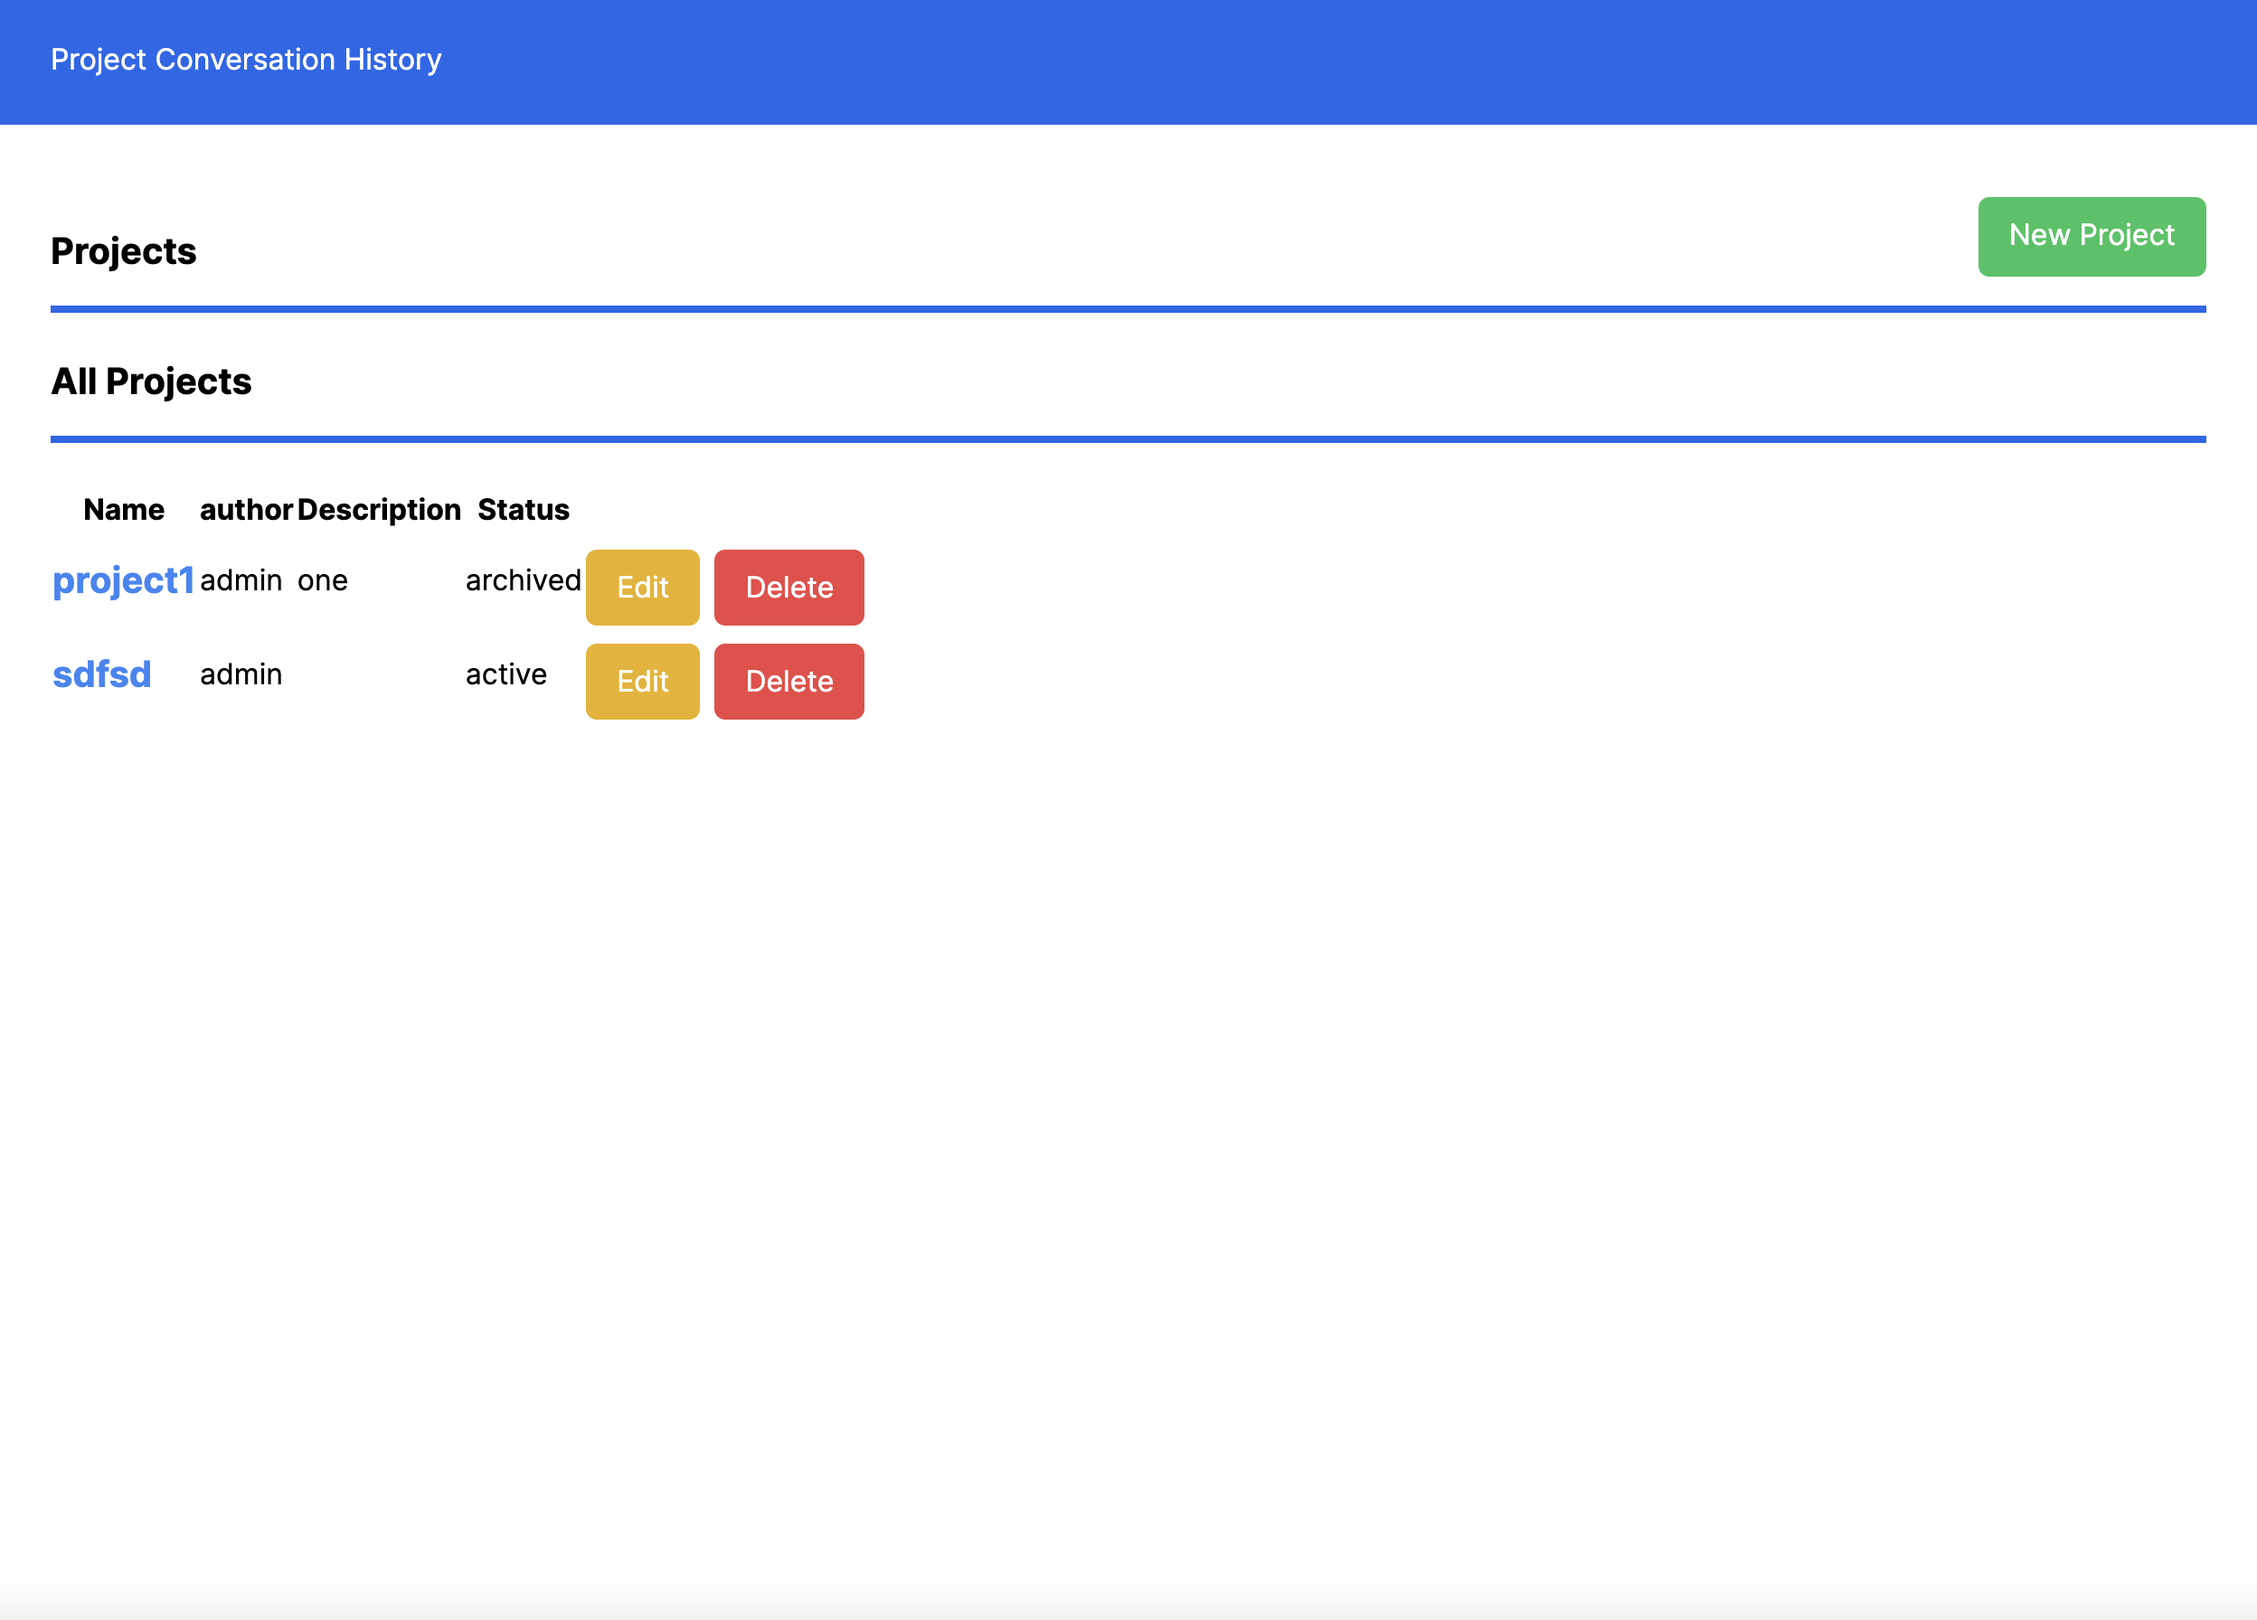
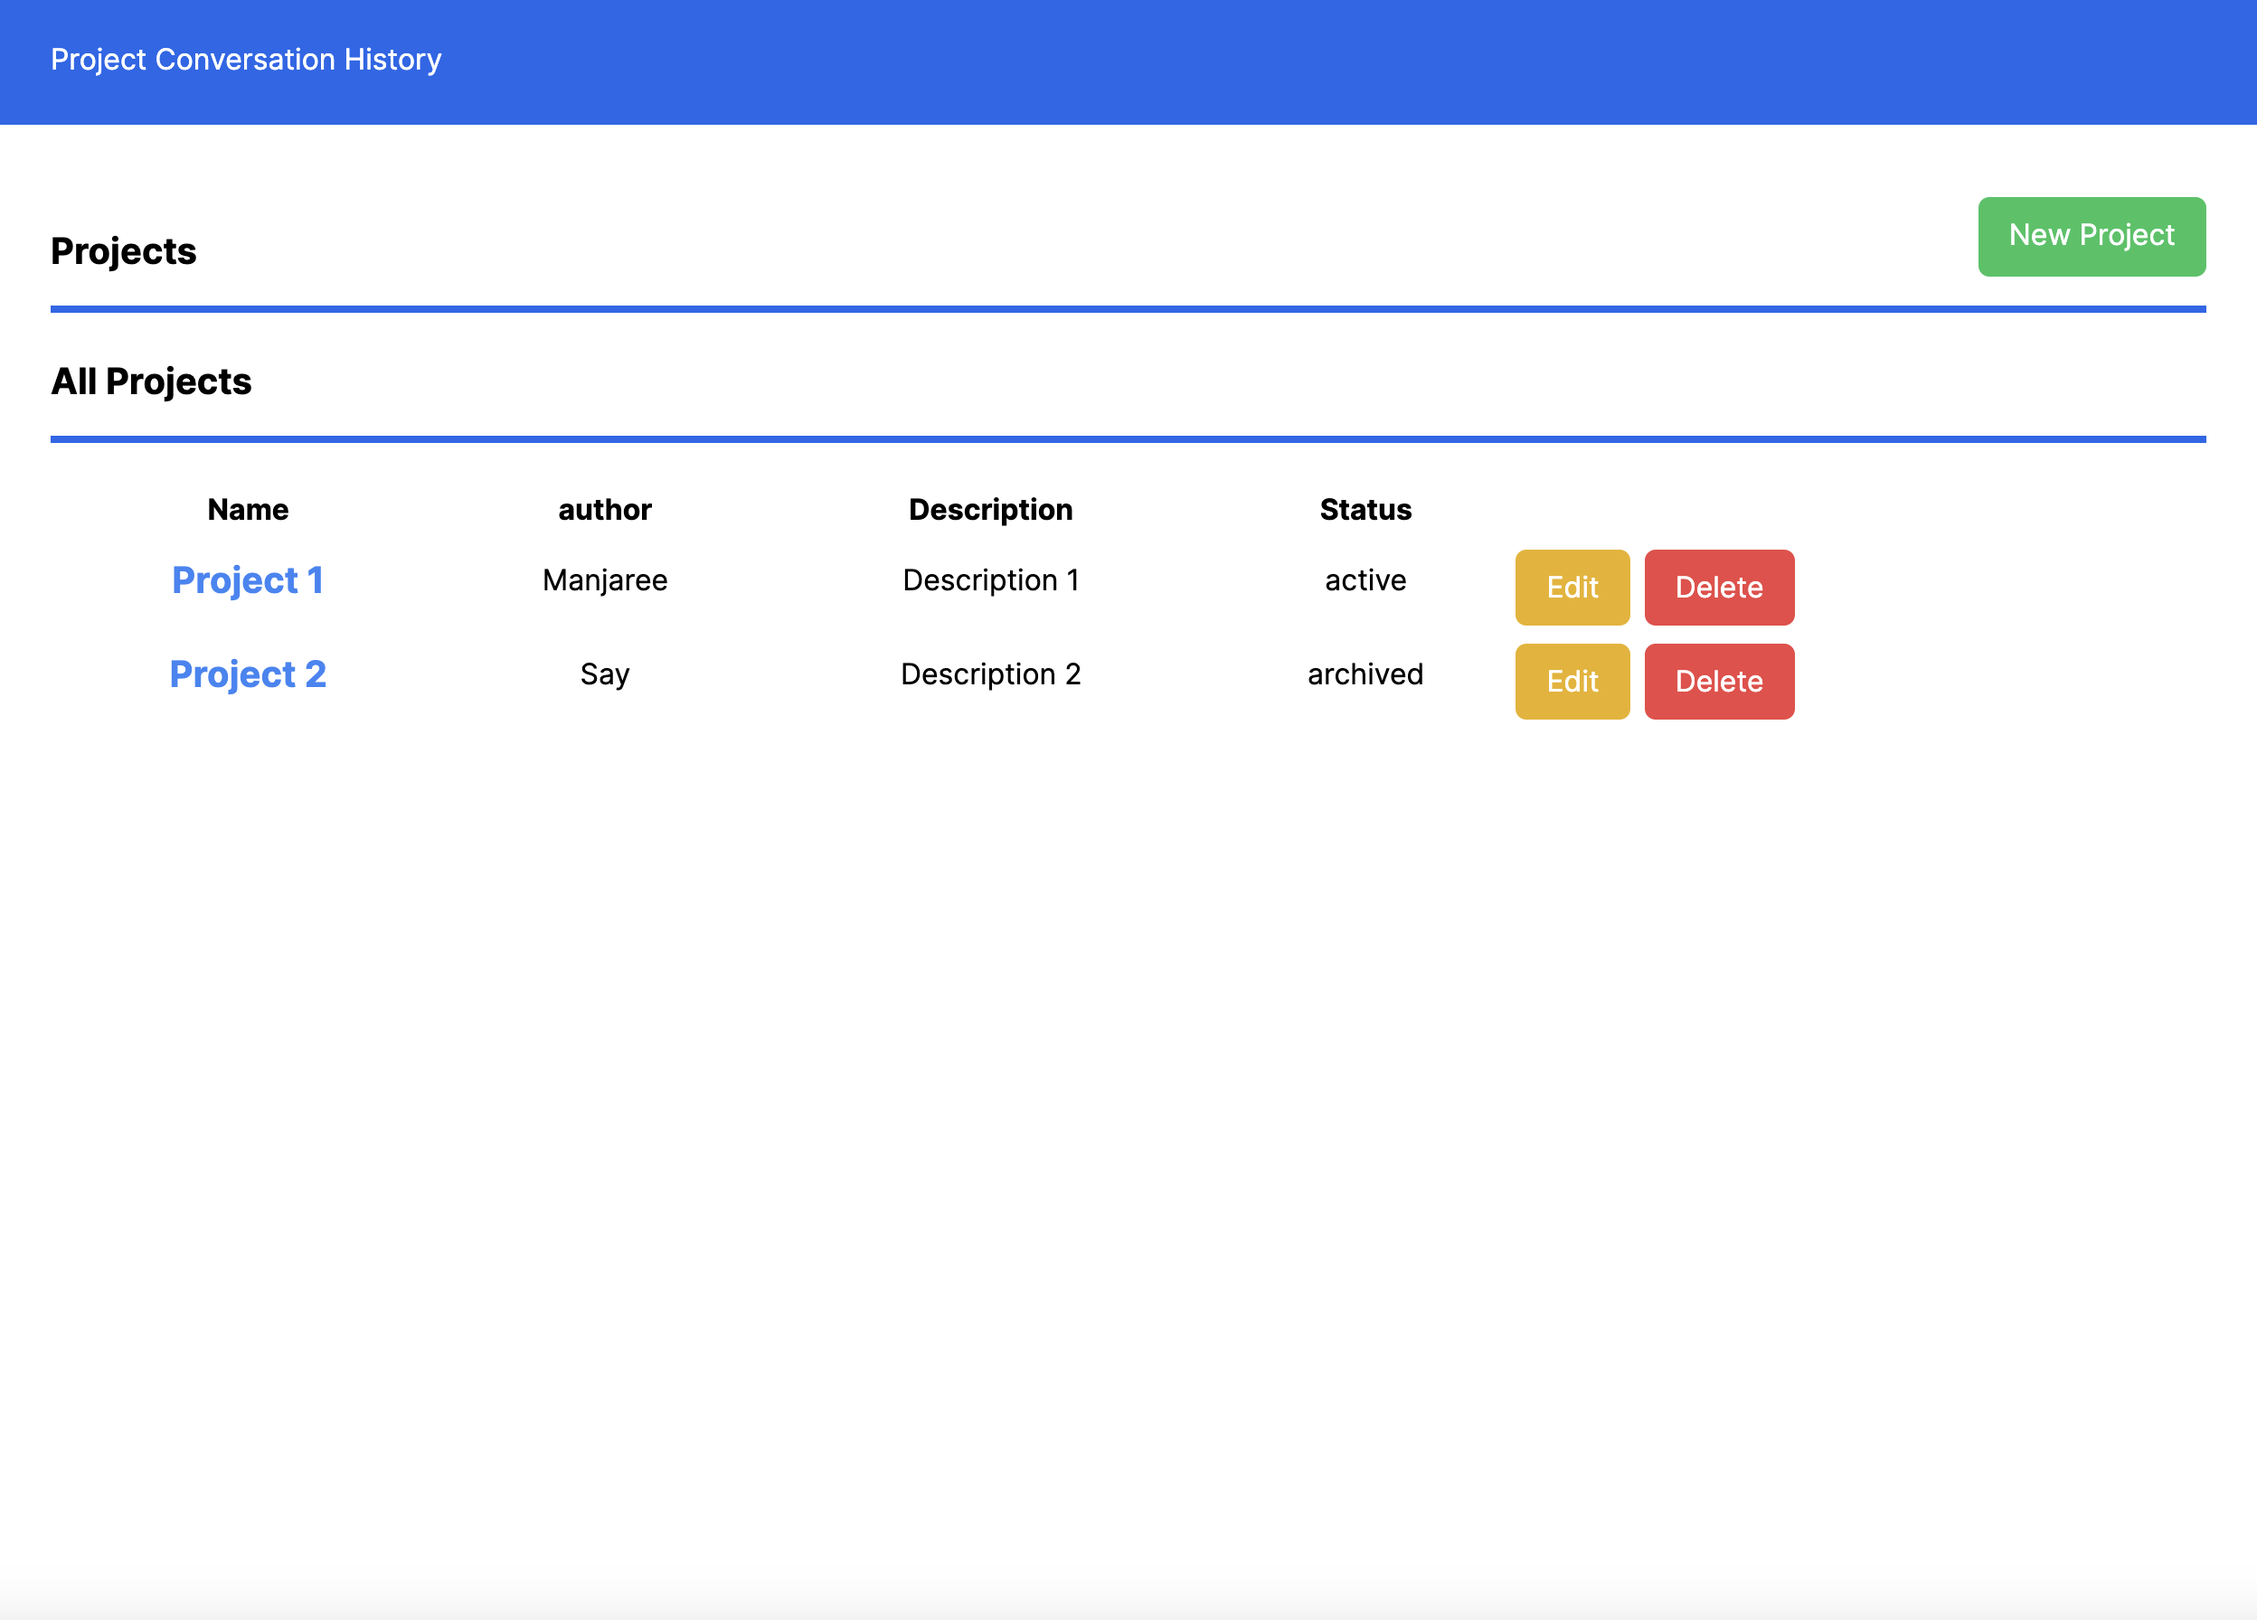
added more seeds and specs

diff --git a/app/controllers/projects_controller.rb b/app/controllers/projects_controller.rb
@@ -4,20 +4,25 @@ class ProjectsController < ApplicationController
   before_action :set_project, only: %i[show edit update destroy]
   before_action :authorize_user!, only: %i[edit update destroy]
 
+  # GET /projects/new
   def new
     @project = Project.new
   end
 
+  # GET /projects/:id
   def show
     @comments = @project.comments.order_by_latest.includes(:author).paginate(page: page_no, per_page: per_page)
   end
 
+  # GET /projects/:id/edit
   def edit; end
 
+  # GET /projects
   def index
     @projects = Project.includes(:owner).paginate(page: page_no, per_page: per_page)
   end
 
+  # POST /projects
   def create
     result = Projects::CreateService.call(params: project_params, user: @current_user)
     respond_to do |format|
@@ -29,6 +34,7 @@ class ProjectsController < ApplicationController
     end
   end
 
+  # PATCH/PUT /projects/:id
   def update
     respond_to do |format|
       if @project.update(project_params)
@@ -39,6 +45,7 @@ class ProjectsController < ApplicationController
     end
   end
 
+  # DELETE /projects/:id
   def destroy
     @project.destroy
     respond_to do |format|
@@ -56,8 +63,7 @@ class ProjectsController < ApplicationController
     unless @project.owner.id == @current_user.id
       respond_to do |format|
         format.html do
-          redirect_to project_url(@project), status: :unauthorized,
-                                             alert: "You are not authorized to do that."
+          redirect_to "/projects", status: :unauthorized, alert: "You are not authorized to do that."
         end
       end
       return false

diff --git a/app/controllers/comments_controller.rb b/app/controllers/comments_controller.rb
@@ -1,12 +1,14 @@
 # frozen_string_literal: true
 
 class CommentsController < ApplicationController
-  before_action :set_project, only: %i[index destroy]
+  before_action :set_project, only: %i[new index destroy]
 
+  # GET /projects/:project_id/comments/new
   def new
     @comment = Comment.new
   end
 
+  # Delete /projects/:project_id/comments/:id
   def destroy
     @comment = @project.comments.find(params[:id])
     @comment.destroy
@@ -15,15 +17,17 @@ class CommentsController < ApplicationController
     end
   end
 
+  # GET /projects/:project_id/comments
   def index
     @comments = @project.comments.all.paginate(page: page_no, per_page: per_page)
   end
 
+  # POST /projects/:project_id/comments
   def create
-    result = Comments::CreateService.call(params: comment_params, user: @current_user)
+    result = Comments::CreateService.call(params: comment_params.merge(project_id: params[:project_id]), user: @current_user)
     respond_to do |format|
       if result.success?
-        format.html { redirect_to "/projects/#{comment_params[:project_id]}", notice: "Comment was successfully created." }
+        format.html { redirect_to "/projects/#{params[:project_id]}", notice: "Comment was successfully created." }
       else
         format.html { render :new, status: :unprocessable_entity, alert: result.errors }
       end
@@ -37,6 +41,6 @@ class CommentsController < ApplicationController
   end
 
   def comment_params
-    params.require(:comment).permit(:content, :project_id)
+    params.require(:comment).permit(:content)
   end
 end

diff --git a/db/seeds.rb b/db/seeds.rb
@@ -10,4 +10,13 @@
 #     MovieGenre.find_or_create_by!(name: genre_name)
 #   end
 
-User.create!(username: 'admin', email: 'admin@gmail.com', password: '12345678', password_confirmation: '12345678')
+user1 = User.create!(username: 'Manjaree', email: 'manjaree@gmail.com', password: '12345678', password_confirmation: '12345678')
+user2 = User.create!(username: 'Say', email: 'say@gmail.com', password: '12345678', password_confirmation: '12345678')
+
+project1 = Project.create!(name: 'Project 1', status: 'active', owner: user1, description: 'Description 1')
+project2 = Project.create!(name: 'Project 2', status: 'archived', owner: user2, description: 'Description 2')
+
+comment1 = Comment.create!(content: 'Comment 1', author: user1, project: project1)
+comment2 = Comment.create!(content: 'Comment 2', author: user2, project: project1)
+comment3 = Comment.create!(content: 'Comment 3', author: user1, project: project2)
+comment4 = Comment.create!(content: 'Comment 4', author: user2, project: project2)

diff --git a/spec/routes/projects_spec.rb b/spec/routes/projects_spec.rb
@@ -1,0 +1,35 @@
+# frozen_string_literal: true
+
+require 'rails_helper'
+
+RSpec.describe ProjectsController, type: :routing do
+  describe 'routing' do
+    it 'routes to #create' do
+      expect(post: '/projects').to route_to('projects#create')
+    end
+
+    it 'routes to #new' do
+      expect(get: '/projects/new').to route_to('projects#new')
+    end
+
+    it 'routes to #index' do
+      expect(get: '/projects').to route_to('projects#index')
+    end
+
+    it 'routes to #edit' do
+      expect(get: '/projects/:id/edit').to route_to('projects#edit', id: ':id')
+    end
+
+    it 'routes to #show' do
+      expect(get: '/projects/:id').to route_to('projects#show', id: ':id')
+    end
+
+    it 'routes to #update' do
+      expect(put: '/projects/:id').to route_to('projects#update', id: ':id')
+    end
+
+    it 'routes to #destroy' do
+      expect(delete: '/projects/:id').to route_to('projects#destroy', id: ':id')
+    end
+  end
+end

diff --git a/spec/routes/comments_spec.rb b/spec/routes/comments_spec.rb
@@ -1,0 +1,23 @@
+# frozen_string_literal: true
+
+require 'rails_helper'
+
+RSpec.describe CommentsController, type: :routing do
+  describe 'routing' do
+    it 'routes to #create' do
+      expect(post: '/projects/:project_id/comments').to route_to('comments#create', project_id: ':project_id')
+    end
+
+    it 'routes to #new' do
+      expect(get: '/projects/:project_id/comments/new').to route_to('comments#new', project_id: ':project_id')
+    end
+
+    it 'routes to #index' do
+      expect(get: '/projects/:project_id/comments').to route_to('comments#index', project_id: ':project_id')
+    end
+
+    it 'routes to #destroy' do
+      expect(delete: '/projects/:project_id/comments/:id').to route_to('comments#destroy', project_id: ':project_id', id: ':id')
+    end
+  end
+end

diff --git a/app/controllers/sessions_controller.rb b/app/controllers/sessions_controller.rb
@@ -3,8 +3,10 @@
 class SessionsController < ApplicationController
   skip_before_action :authorize, only: %i[new create]
 
+  # GET /sessions/new
   def new; end
 
+  # POST /sessions
   def create
     result = Auth::LoginService.call(email: login_params[:email], password: login_params[:password])
     if result.success?

diff --git a/config/routes.rb b/config/routes.rb
@@ -17,7 +17,6 @@ Rails.application.routes.draw do
 
   resources :sessions, only: %i[create]
   resources :projects do
-    resources :comments, only: %i[create destroy]
+    resources :comments, only: %i[new create destroy index]
   end
-  resources :users
 end

diff --git a/README.md b/README.md
@@ -23,6 +23,8 @@ The project conversation history should list comments and changes in status.
 ![Alt text](/screenshots/login.png?raw=true "Login screen")
 ![Alt text](/screenshots/projects.png?raw=true "Projects list screen")
 ![Alt text](/screenshots/edit_project.png?raw=true "Edit status of project screen")
+![Alt text](/screenshots/show_project.png?raw=true "Show project screen")
+![Alt text](/screenshots/add_comment.png?raw=true "Add new comment screen")
 
 
 ## Requirements
@@ -65,7 +67,8 @@ $ docker-compose run --rm app bin/rails c
 ```
 Already will run within the docker and the credentials are:
 
-email: admin@gmail.com   password: 12345678   name: admin
+email: manjaree@gmail.com   password: 12345678
+email: say@gmail.com   password: 12345678
 ```
 ## Author
 
